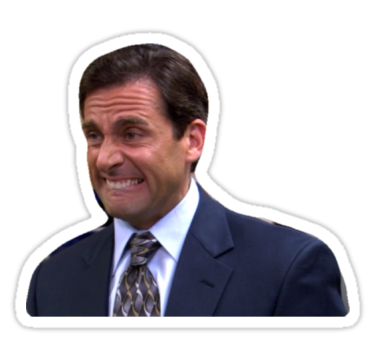
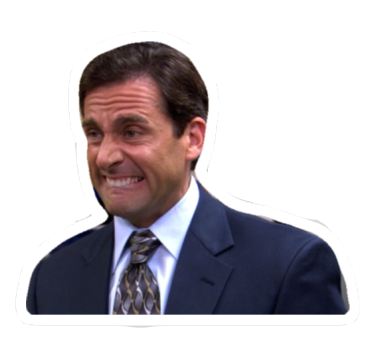
adds background

diff --git a/style.css b/style.css
@@ -29,9 +29,26 @@
   grid-template-columns: repeat(auto-fill, minmax(auto, 30vw));
 }
 
+
+[data-character="michael"] {
+  background-image: url(./images/mug.jpg);
+  background-color: aliceblue;
+  background-blend-mode: overlay;
+  background-size: cover;
+  background-position: left;
+  background-size: 50%;
+  background-repeat: no-repeat;
+}
+
 .charcterPage h2 {
   grid-area: 1/1 / span 1 / span 3;
 }
+
+.charcterPage img {
+  filter: drop-shadow(1px 2px 1px lightgrey);
+}
+
+
 
 .charcterPage img:nth-of-type(1) {
   height: 20vh;
@@ -106,7 +123,7 @@ li a {
   align-items: center;
 
   justify-self: center;
-  align-self: center;
+  align-self: flex-start;
   display: flex;
   justify-content: center;
 }
@@ -144,10 +161,12 @@ li a {
   display: flex;
   justify-content: space-evenly;
   width: 50%;
+  margin-top: 2vh;
 }
 
 .dash {
-  width: 15px;
-  height: 15px;
-  background-color: red;
+  width: 2vh;
+  height: 2vh;
+  background-color: lightgray;
+  box-shadow: 1px 1px 1px 1px darkgrey;
 }

diff --git a/index.html b/index.html
@@ -23,7 +23,7 @@
         <img class="logo" src="./images/logo.png" alt="The office logo" />
       </article>
 
-      <article id="Michael" class="inner charcterPage">
+      <article id="Michael" class="inner charcterPage" data-character="michael">
         <h2>Michael Gary Scott</h2>
         <img src="./images/mgs-1.png" alt="Michael Gary Scott" />
         <div class="text">
